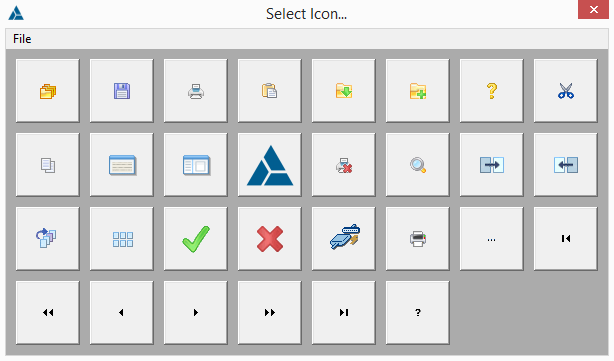
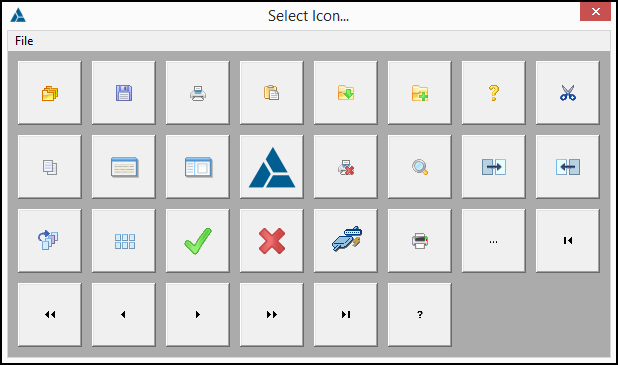
Updated README.md and Screen Shot

diff --git a/README.md b/README.md
@@ -12,7 +12,7 @@ The class provides an example of using PROCTYPE and the Windows [EnumResourceNam
 
 ### ctIconPicker Screen Shot ###
 
-![Screen Capture](https://github.com/Devuna/Devuna-ctIconPicker/images/ctIconPicker.png)
+![Screen Capture](images/ctIconPicker.png)
 
 ### ctIconPicker Source Files ###
 
